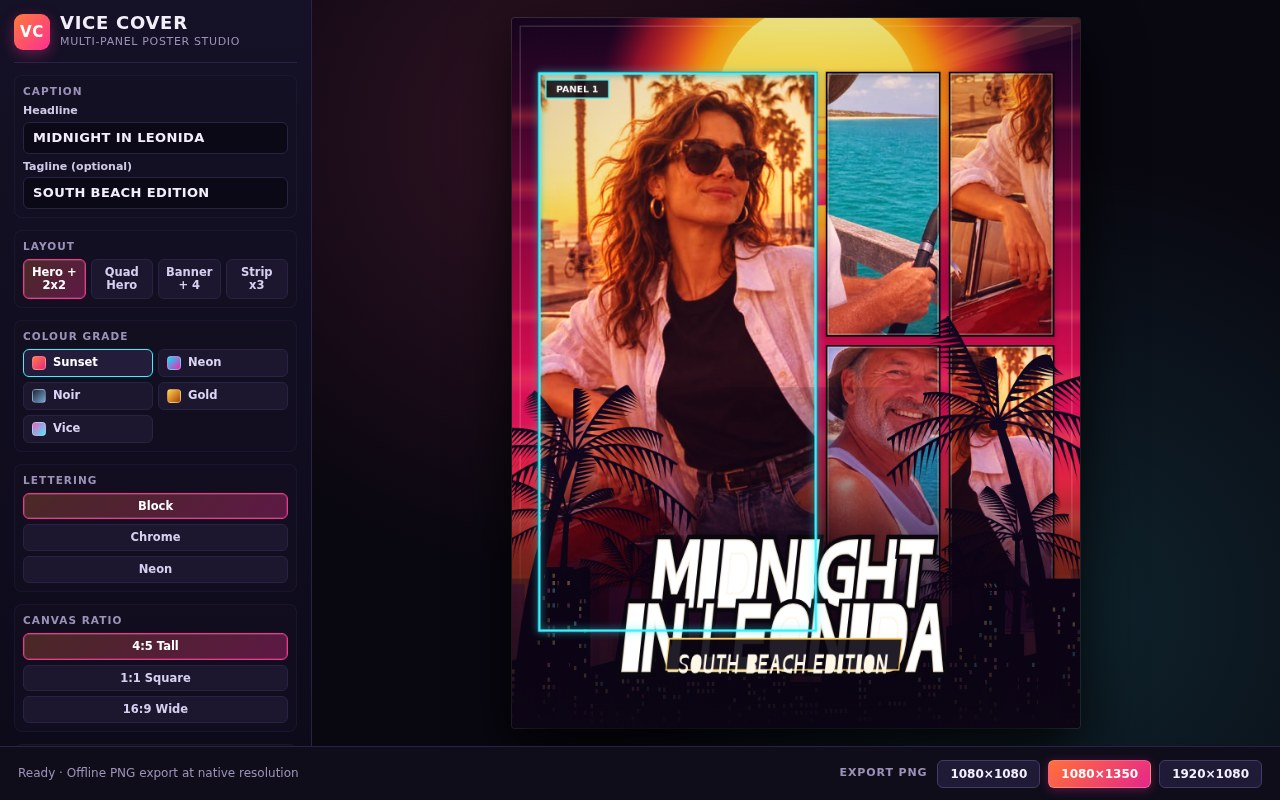
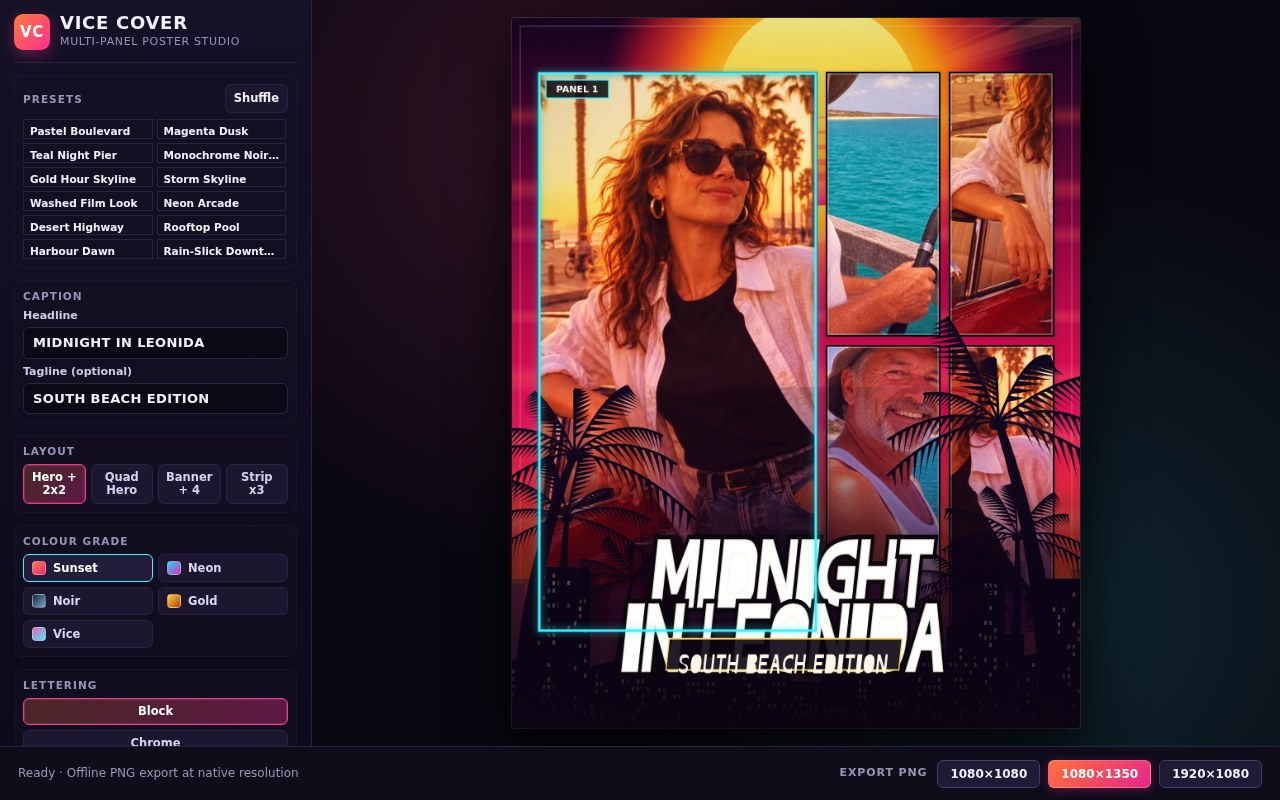
gca_p8: independent replay pass for gta6-cover-art-01

Changed region(s): [[0.0, 0.0938, 0.25, 0.9375], [0.1875, 0.0938, 0.2188, 0.125]]

diff --git a/app/src/presets.js b/app/src/presets.js
@@ -1,0 +1,182 @@
+// Ready-made poster looks for the Vice Cover poster studio.
+
+export const PRESETS = [
+  {
+    id: 'pastel-boulevard',
+    label: 'Pastel Boulevard',
+    caption: 'PALM SHADOWS',
+    tagline: 'OCEAN DRIVE AT NOON',
+    layout: 'hero',
+    grade: 'gold',
+    lettering: 'block',
+    seed: 1984,
+    mood: 'Pastel Daytime',
+  },
+  {
+    id: 'magenta-dusk',
+    label: 'Magenta Dusk',
+    caption: 'DUSK CRUISER',
+    tagline: 'BURNING SKYLINE PASS',
+    layout: 'quad',
+    grade: 'sunset',
+    lettering: 'neon',
+    seed: 2048,
+    mood: 'Hot Dusk',
+  },
+  {
+    id: 'teal-pier',
+    label: 'Teal Night Pier',
+    caption: 'COASTAL LIGHTS',
+    tagline: 'MIDNIGHT ON THE MARINA',
+    layout: 'strip',
+    grade: 'vice',
+    lettering: 'chrome',
+    seed: 3072,
+    mood: 'Night Pier',
+  },
+  {
+    id: 'monochrome-street',
+    label: 'Monochrome Noir Street',
+    caption: 'SHADOW CITY',
+    tagline: 'NO WAY OUT TONIGHT',
+    layout: 'mosaic',
+    grade: 'noir',
+    lettering: 'block',
+    seed: 4096,
+    mood: 'Monochrome Noir',
+  },
+  {
+    id: 'gold-skyline',
+    label: 'Gold Hour Skyline',
+    caption: 'AMBER RUSH',
+    tagline: 'GOLDEN HOUR HIGHLIGHTS',
+    layout: 'triptych',
+    grade: 'gold',
+    lettering: 'chrome',
+    seed: 5120,
+    mood: 'Gold Hour',
+  },
+  {
+    id: 'storm-skyline',
+    label: 'Storm Skyline',
+    caption: 'LIGHTNING BAY',
+    tagline: 'TEMPEST OVER THE CITY',
+    layout: 'grid',
+    grade: 'noir',
+    lettering: 'chrome',
+    seed: 6144,
+    mood: 'Storm-Lit',
+  },
+  {
+    id: 'washed-film',
+    label: 'Washed Film Look',
+    caption: 'SUNFADED DAYS',
+    tagline: 'RETRO GRAIN MEMORIES',
+    layout: 'hero',
+    grade: 'sunset',
+    lettering: 'block',
+    seed: 7168,
+    mood: 'Washed-Out Film',
+  },
+  {
+    id: 'neon-arcade',
+    label: 'Neon Arcade',
+    caption: 'HIGH SCORE VICE',
+    tagline: 'GLOWING CABIN RUSH',
+    layout: 'quad',
+    grade: 'neon',
+    lettering: 'neon',
+    seed: 8192,
+    mood: 'Neon Arcade',
+  },
+  {
+    id: 'desert-highway',
+    label: 'Desert Highway',
+    caption: 'HEATWAVE RUN',
+    tagline: 'ENDLESS ASPHALT HORIZON',
+    layout: 'strip',
+    grade: 'gold',
+    lettering: 'block',
+    seed: 9216,
+    mood: 'Desert Highway',
+  },
+  {
+    id: 'rooftop-pool',
+    label: 'Rooftop Pool',
+    caption: 'AZURE SKYLINE',
+    tagline: 'HIGH RISE CHILL',
+    layout: 'triptych',
+    grade: 'vice',
+    lettering: 'neon',
+    seed: 10240,
+    mood: 'Rooftop Pool',
+  },
+  {
+    id: 'harbour-dawn',
+    label: 'Harbour Dawn',
+    caption: 'MORNING MIST',
+    tagline: 'FIRST RAYS AT THE DOCKS',
+    layout: 'mosaic',
+    grade: 'sunset',
+    lettering: 'chrome',
+    seed: 11264,
+    mood: 'Harbour Dawn',
+  },
+  {
+    id: 'rain-downtown',
+    label: 'Rain-Slick Downtown',
+    caption: 'NEON REFLECTIONS',
+    tagline: 'WET ASPHALT MIDNIGHT',
+    layout: 'grid',
+    grade: 'neon',
+    lettering: 'chrome',
+    seed: 12288,
+    mood: 'Rain-Slick Downtown',
+  },
+];
+
+/**
+ * Groups the presets by mood and returns them in a stable order.
+ * Returns an object mapping mood string to array of preset objects.
+ */
+export function presetsByMood() {
+  const groups = {};
+  for (const preset of PRESETS) {
+    if (!groups[preset.mood]) {
+      groups[preset.mood] = [];
+    }
+    groups[preset.mood].push(preset);
+  }
+  return groups;
+}
+
+/**
+ * Returns the preset with the given id, or null if not found.
+ */
+export function findPreset(id) {
+  return PRESETS.find((p) => p.id === id) ?? null;
+}
+
+/**
+ * Walks the list by a signed step and wraps around.
+ */
+export function nextPreset(id, step = 1) {
+  if (PRESETS.length === 0) return null;
+  const idx = PRESETS.findIndex((p) => p.id === id);
+  if (idx < 0) return PRESETS[0];
+  const count = PRESETS.length;
+  const nextIdx = (idx + (step % count) + count) % count;
+  return PRESETS[nextIdx];
+}
+
+/**
+ * Takes a function returning a number in [0,1) and returns a preset,
+ * keeping the choice deterministic when passed a seeded PRNG.
+ */
+export function randomPreset(rand = Math.random) {
+  if (PRESETS.length === 0) return null;
+  const val = typeof rand === 'function' ? rand() : Math.random();
+  const idx = Math.floor(val * PRESETS.length) % PRESETS.length;
+  return PRESETS[idx];
+}
+

diff --git a/app/src/editor.js b/app/src/editor.js
@@ -3,6 +3,8 @@
 
 import { computePanels, hitTestPanel, SIZES } from './layout.js';
 import { renderPoster, exportPosterPng } from './render.js';
+import { PRESETS, nextPreset, randomPreset } from './presets.js';
+import { mulberry32 } from './prng.js';
 
 const MAX_PANELS = 5;
 
@@ -26,6 +28,7 @@ export function createInitialState() {
     caption: 'MIDNIGHT IN LEONIDA',
     subtitle: 'SOUTH BEACH EDITION',
     seed: 1986,
+    activePresetId: null,
     selectedPanel: 0,
     panels: Array.from({ length: MAX_PANELS }, () => ({
       img: null,
@@ -179,6 +182,10 @@ export function initEditor(state, options = {}) {
       btn.classList.toggle('is-active', btn.dataset.size === state.size);
       btn.setAttribute('aria-pressed', String(btn.dataset.size === state.size));
     });
+    document.querySelectorAll('[data-preset]').forEach((btn) => {
+      btn.classList.toggle('is-active', btn.dataset.preset === state.activePresetId);
+      btn.setAttribute('aria-pressed', String(btn.dataset.preset === state.activePresetId));
+    });
   }
 
   function renderNow() {
@@ -247,6 +254,48 @@ export function initEditor(state, options = {}) {
       setStatus('Could not decode one of the selected images.');
       redoStack.pop();
     }
+  }
+
+  function applyPresetObj(preset, isUndoable = true) {
+    if (!preset) return;
+    if (isUndoable) pushUndo();
+    state.caption = preset.caption;
+    state.subtitle = preset.tagline;
+    state.layout = preset.layout;
+    state.grade = preset.grade;
+    state.lettering = preset.lettering;
+    state.seed = preset.seed;
+    state.activePresetId = preset.id;
+    syncControlsFromState();
+    renderNow();
+    setStatus(`Applied preset: ${preset.label} (${preset.mood}).`);
+  }
+
+  // Preset strip rendering & listeners
+  const presetStripEl = document.getElementById('preset-strip');
+  if (presetStripEl) {
+    presetStripEl.innerHTML = '';
+    for (const preset of PRESETS) {
+      const btn = document.createElement('button');
+      btn.type = 'button';
+      btn.className = 'preset-btn';
+      btn.dataset.preset = preset.id;
+      btn.textContent = preset.label;
+      btn.title = `${preset.label} — ${preset.mood}`;
+      btn.addEventListener('click', () => applyPresetObj(preset));
+      presetStripEl.appendChild(btn);
+    }
+  }
+
+  const shufflePresetBtn = document.getElementById('shuffle-preset-btn');
+  if (shufflePresetBtn) {
+    shufflePresetBtn.addEventListener('click', () => {
+      const rng = mulberry32(state.seed || 12345);
+      const chosen = randomPreset(rng);
+      if (chosen) {
+        applyPresetObj(chosen);
+      }
+    });
   }
 
   // Layout buttons with shortcuts
@@ -584,6 +633,24 @@ export function initEditor(state, options = {}) {
       state.seed = ((Math.imul(state.seed, 1664525) + 1013904223) >>> 0) % 9000 + 1000;
       syncControlsFromState();
       renderNow();
+    }
+
+    // Preset navigation: P / Shift+P or BracketRight / BracketLeft
+    if ((e.key === 'p' || e.key === 'P') && !e.ctrlKey && !e.metaKey) {
+      if (document.activeElement && (document.activeElement.tagName === 'INPUT' || document.activeElement.tagName === 'TEXTAREA')) {
+        return;
+      }
+      const step = e.shiftKey ? -1 : 1;
+      const next = nextPreset(state.activePresetId, step);
+      if (next) applyPresetObj(next);
+    }
+    if ((e.key === ']' || e.key === '[') && !e.ctrlKey && !e.metaKey) {
+      if (document.activeElement && (document.activeElement.tagName === 'INPUT' || document.activeElement.tagName === 'TEXTAREA')) {
+        return;
+      }
+      const step = e.key === ']' ? 1 : -1;
+      const next = nextPreset(state.activePresetId, step);
+      if (next) applyPresetObj(next);
     }
 
     // Export: E

diff --git a/app/style.css b/app/style.css
@@ -117,6 +117,44 @@ html, body {
   color: var(--muted);
 }
 
+.preset-strip {
+  display: grid;
+  grid-template-columns: repeat(2, 1fr);
+  gap: 4px;
+  max-height: 140px;
+  overflow-y: auto;
+  padding-right: 2px;
+}
+
+.preset-btn {
+  background: var(--surface-light);
+  border: 1px solid var(--border);
+  color: var(--fg);
+  border-radius: var(--radius-sm);
+  padding: 5px 6px;
+  font-family: inherit;
+  font-size: 10.5px;
+  font-weight: 600;
+  text-align: left;
+  cursor: pointer;
+  white-space: nowrap;
+  overflow: hidden;
+  text-overflow: ellipsis;
+  transition: all 0.12s ease;
+}
+
+.preset-btn:hover {
+  border-color: var(--accent-cyan);
+  background: rgba(0, 240, 255, 0.08);
+}
+
+.preset-btn.is-active {
+  background: linear-gradient(135deg, rgba(255, 46, 147, 0.25), rgba(0, 240, 255, 0.25));
+  border-color: var(--accent-pink);
+  color: #fff;
+  box-shadow: 0 0 8px rgba(255, 46, 147, 0.3);
+}
+
 .pill {
   font-size: 10.5px;
   font-weight: 700;

diff --git a/app/index.html b/app/index.html
@@ -19,6 +19,16 @@
     </header>
 
     <section class="group">
+      <div class="group-head">
+        <h2 class="group-title">Presets</h2>
+        <button type="button" id="shuffle-preset-btn" class="action-btn" title="Press P to shuffle presets">Shuffle</button>
+      </div>
+      <div id="preset-strip" class="preset-strip" role="group" aria-label="Poster presets">
+        <!-- Preset buttons generated dynamically or static -->
+      </div>
+    </section>
+
+    <section class="group">
       <h2 class="group-title">Caption</h2>
       <label class="field">
         <span>Headline</span>
